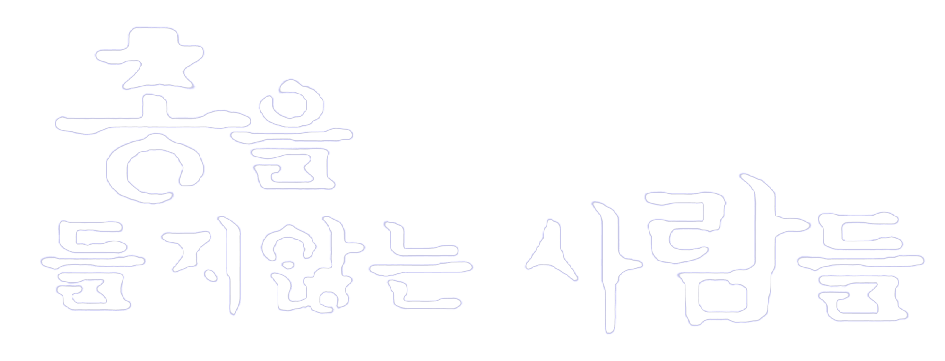
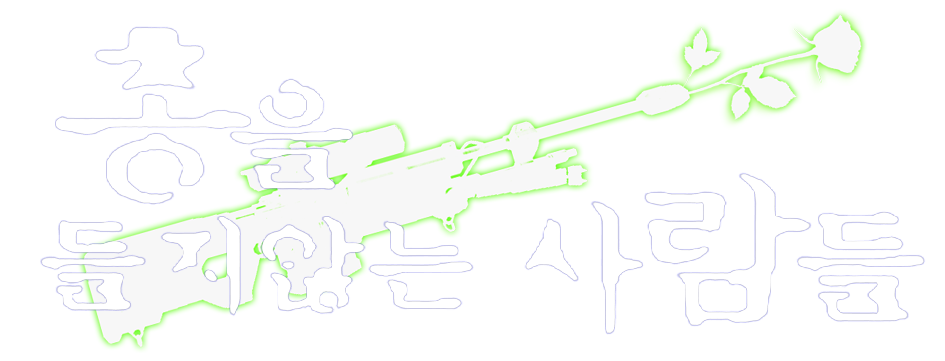
add

diff --git a/prologue.html b/prologue.html
@@ -75,11 +75,11 @@ But, It’s not annoying. Actually It sounds more and more like… </br></br>Lik
 
 
 
-
+<!-- 
 <script src="https://ajax.googleapis.com/ajax/libs/jquery/3.4.1/jquery.min.js"></script>
   <script src="https://code.jquery.com/jquery-1.12.4.js"></script>
   <script src="https://code.jquery.com/ui/1.12.1/jquery-ui.js"></script>
-<script src="mainscript.js"></script>
+<script src="mainscript.js"></script> -->
 
   </body>
 

diff --git a/firstpage.css b/firstpage.css
@@ -42,6 +42,11 @@ background-color: blue;
   background-size: cover;
 }
 
+.title:hover {
+  background-image: url(title-hover.png);
+  background-size: cover;
+}
+
 .vhs {
   visibility: hidden;
   width: 23%;
@@ -52,6 +57,7 @@ background-color: blue;
   background-image: url(vhs.png);
   background-size: cover;
 }
+
 
 #left{
   left: 0;
